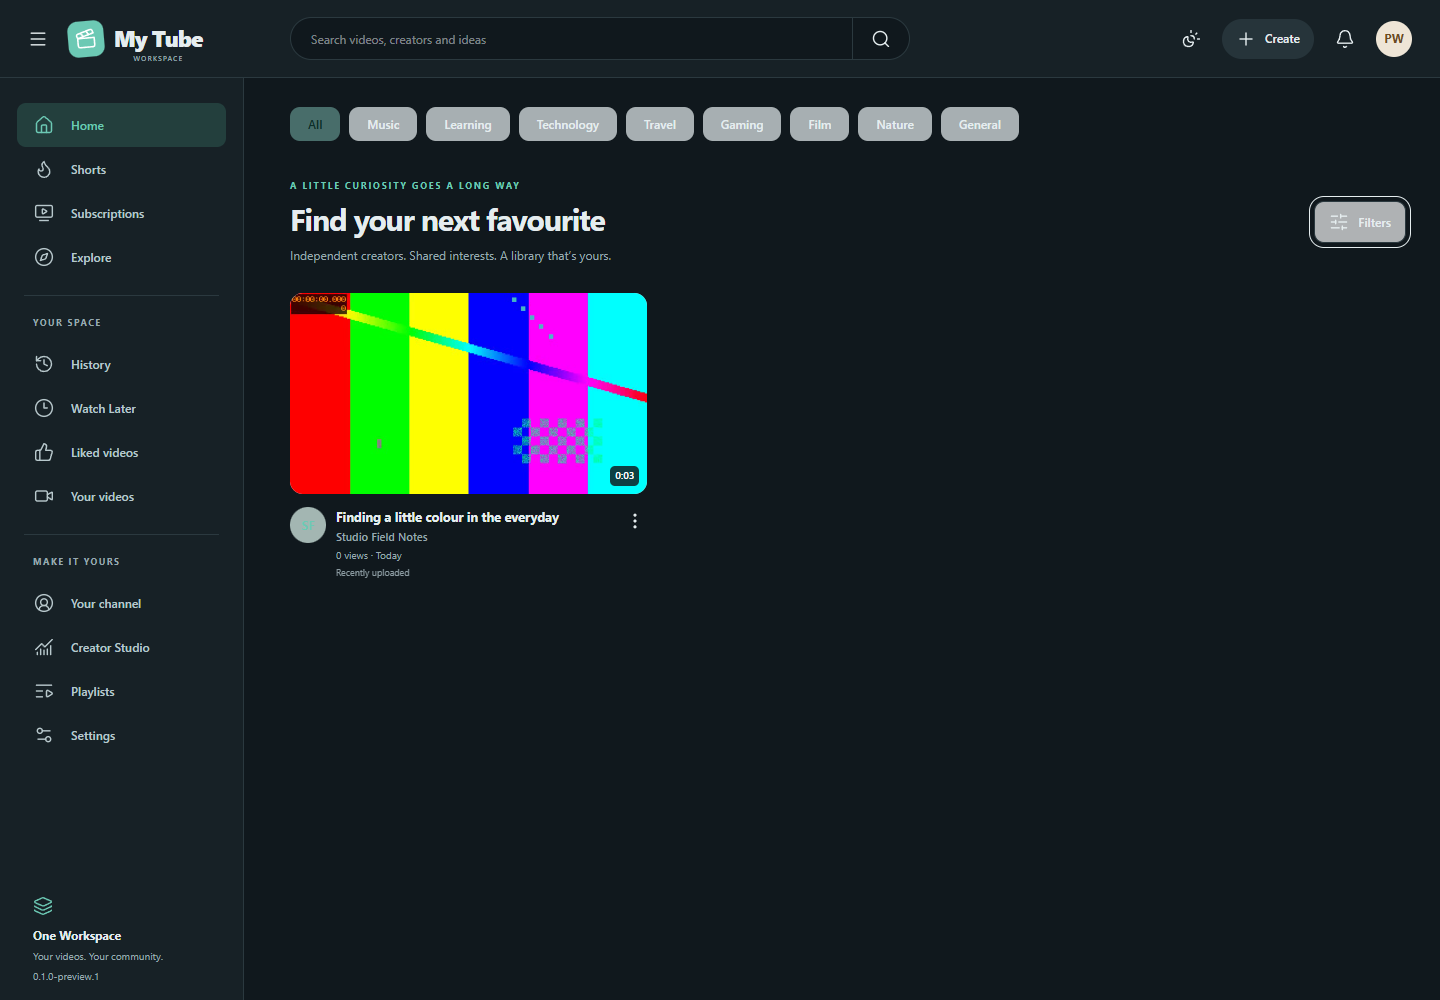
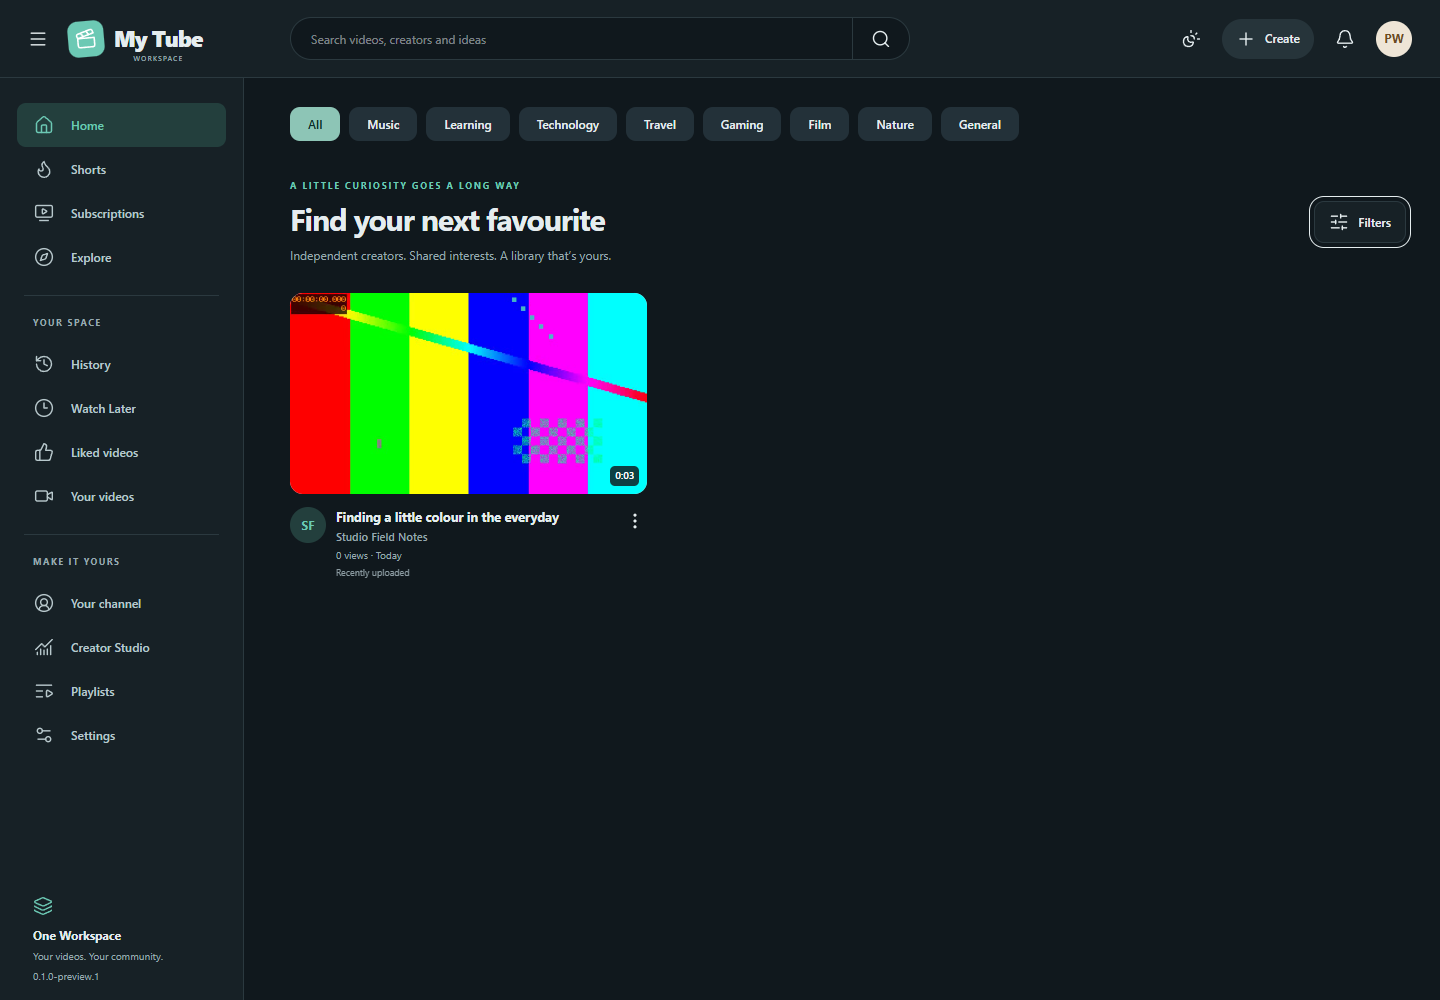
Capture settled themes during browser visual acceptance

Changed region(s): [[0.1875, 0.093, 0.7188, 0.155], [0.9062, 0.186, 1.0, 0.248], [0.1875, 0.496, 0.25, 0.558]]

diff --git a/web/tests/tube.spec.ts b/web/tests/tube.spec.ts
@@ -185,7 +185,28 @@ test("create a channel, resumable native upload, direct playback and persistent 
   ).toBeVisible();
   expect((await api(context, "videos/" + videoID)).later).toBe(true);
 });
-test("optional HLS rendition decodes in Chrome",async({page,context})=>{test.skip(!process.env.MYTUBE_TEST_FFMPEG,'Set helper paths for the real HLS browser check');await expect.poll(async()=> (await api(context,'videos/'+videoID)).hls,{timeout:30000}).toBe(true);await page.goto('/#watch/'+videoID);await page.waitForFunction(()=>{const video=document.querySelector('video');return video&&video.readyState>=2});await expect(page.getByLabel('Playback quality')).toContainText('360p');await page.locator('video').evaluate((v:HTMLVideoElement)=>v.play());await page.waitForFunction(()=>document.querySelector('video')!.currentTime>.2);await page.locator('video').evaluate((v:HTMLVideoElement)=>v.pause())});
+test("optional HLS rendition decodes in Chrome", async ({ page, context }) => {
+  test.skip(
+    !process.env.MYTUBE_TEST_FFMPEG,
+    "Set helper paths for the real HLS browser check",
+  );
+  await expect
+    .poll(async () => (await api(context, "videos/" + videoID)).hls, {
+      timeout: 30000,
+    })
+    .toBe(true);
+  await page.goto("/#watch/" + videoID);
+  await page.waitForFunction(() => {
+    const video = document.querySelector("video");
+    return video && video.readyState >= 2;
+  });
+  await expect(page.getByLabel("Playback quality")).toContainText("360p");
+  await page.locator("video").evaluate((v: HTMLVideoElement) => v.play());
+  await page.waitForFunction(
+    () => document.querySelector("video")!.currentTime > 0.2,
+  );
+  await page.locator("video").evaluate((v: HTMLVideoElement) => v.pause());
+});
 
 test("playlists, indexed search and settings", async ({ page, context }) => {
   await page.getByRole("button", { name: "Playlists", exact: true }).click();
@@ -268,12 +289,14 @@ test("desktop, mobile and dark screenshots; no horizontal clipping", async ({
   await page.goto("/");
   await expect(page.locator(".video-card")).toHaveCount(1);
   await page.screenshot({
+    animations: "disabled",
     path: "../docs/screenshots/library-desktop.png",
     fullPage: true,
   });
   await page.goto("/#watch/" + videoID);
   await expect(page.locator("video")).toBeVisible();
   await page.screenshot({
+    animations: "disabled",
     path: "../docs/screenshots/watch-desktop.png",
     fullPage: true,
   });
@@ -285,11 +308,13 @@ test("desktop, mobile and dark screenshots; no horizontal clipping", async ({
     ),
   ).toBe(true);
   await page.screenshot({
+    animations: "disabled",
     path: "../docs/screenshots/watch-mobile.png",
     fullPage: true,
   });
   await page.goto("/");
   await page.screenshot({
+    animations: "disabled",
     path: "../docs/screenshots/library-mobile.png",
     fullPage: true,
   });
@@ -298,6 +323,7 @@ test("desktop, mobile and dark screenshots; no horizontal clipping", async ({
   });
   await page.setViewportSize({ width: 1440, height: 1000 });
   await page.screenshot({
+    animations: "disabled",
     path: "../docs/screenshots/library-dark.png",
     fullPage: true,
   });
@@ -309,4 +335,67 @@ test("desktop, mobile and dark screenshots; no horizontal clipping", async ({
   await api(context, "history", "DELETE");
 });
 
-test('first-run wizard writes a managed configuration without storing a client secret',async({browser})=>{const root=await mkdtemp(path.join(os.tmpdir(),'mytube-setup-'));const config=path.join(root,'config.json');const child=spawn(path.resolve(process.env.MYTUBE_TEST_EXE||'../dist/MyTube.exe'),['--no-browser','--config',config,'--data',path.join(root,'data'),'--port','18901'],{windowsHide:true,stdio:['ignore','pipe','pipe']});const context=await browser.newContext();try{const url=await new Promise<string>((resolve,reject)=>{const timeout=setTimeout(()=>reject(Error('Setup startup timeout')),15000);child.stdout!.on('data',d=>{const m=d.toString().match(/http:\/\/127\.0\.0\.1:18901\/auth\/local\?token=[a-f0-9]+/);if(m){clearTimeout(timeout);resolve(m[0])}});child.on('error',reject)});const p=await context.newPage();await p.goto(url);await expect(p.getByRole('heading',{name:'Make My Tube yours'})).toBeVisible();await p.getByRole('button',{name:'Set up My Tube',exact:true}).click();await p.getByLabel('MyAccounts issuer URL').fill('http://localhost:12345');await p.getByLabel('MyAccounts client ID').fill('setup-fixture');await p.getByLabel('Administrator MyAccounts subject (exact sub claim)').fill('fixture-owner');await p.getByRole('button',{name:'Save setup',exact:true}).click();await expect(p.getByText('Setup saved. Restart MyTube.exe to begin using your configuration.')).toBeVisible();const saved=JSON.parse(await readFile(config,'utf8'));expect(saved.mode).toBe('managed');expect(saved.admin_subjects).toEqual(['fixture-owner']);expect(saved.oidc_client_secret).toBeUndefined()}finally{child.kill();await context.close()}});
+test("first-run wizard writes a managed configuration without storing a client secret", async ({
+  browser,
+}) => {
+  const root = await mkdtemp(path.join(os.tmpdir(), "mytube-setup-"));
+  const config = path.join(root, "config.json");
+  const child = spawn(
+    path.resolve(process.env.MYTUBE_TEST_EXE || "../dist/MyTube.exe"),
+    [
+      "--no-browser",
+      "--config",
+      config,
+      "--data",
+      path.join(root, "data"),
+      "--port",
+      "18901",
+    ],
+    { windowsHide: true, stdio: ["ignore", "pipe", "pipe"] },
+  );
+  const context = await browser.newContext();
+  try {
+    const url = await new Promise<string>((resolve, reject) => {
+      const timeout = setTimeout(
+        () => reject(Error("Setup startup timeout")),
+        15000,
+      );
+      child.stdout!.on("data", (d) => {
+        const m = d
+          .toString()
+          .match(/http:\/\/127\.0\.0\.1:18901\/auth\/local\?token=[a-f0-9]+/);
+        if (m) {
+          clearTimeout(timeout);
+          resolve(m[0]);
+        }
+      });
+      child.on("error", reject);
+    });
+    const p = await context.newPage();
+    await p.goto(url);
+    await expect(
+      p.getByRole("heading", { name: "Make My Tube yours" }),
+    ).toBeVisible();
+    await p
+      .getByRole("button", { name: "Set up My Tube", exact: true })
+      .click();
+    await p.getByLabel("MyAccounts issuer URL").fill("http://localhost:12345");
+    await p.getByLabel("MyAccounts client ID").fill("setup-fixture");
+    await p
+      .getByLabel("Administrator MyAccounts subject (exact sub claim)")
+      .fill("fixture-owner");
+    await p.getByRole("button", { name: "Save setup", exact: true }).click();
+    await expect(
+      p.getByText(
+        "Setup saved. Restart MyTube.exe to begin using your configuration.",
+      ),
+    ).toBeVisible();
+    const saved = JSON.parse(await readFile(config, "utf8"));
+    expect(saved.mode).toBe("managed");
+    expect(saved.admin_subjects).toEqual(["fixture-owner"]);
+    expect(saved.oidc_client_secret).toBeUndefined();
+  } finally {
+    child.kill();
+    await context.close();
+  }
+});
